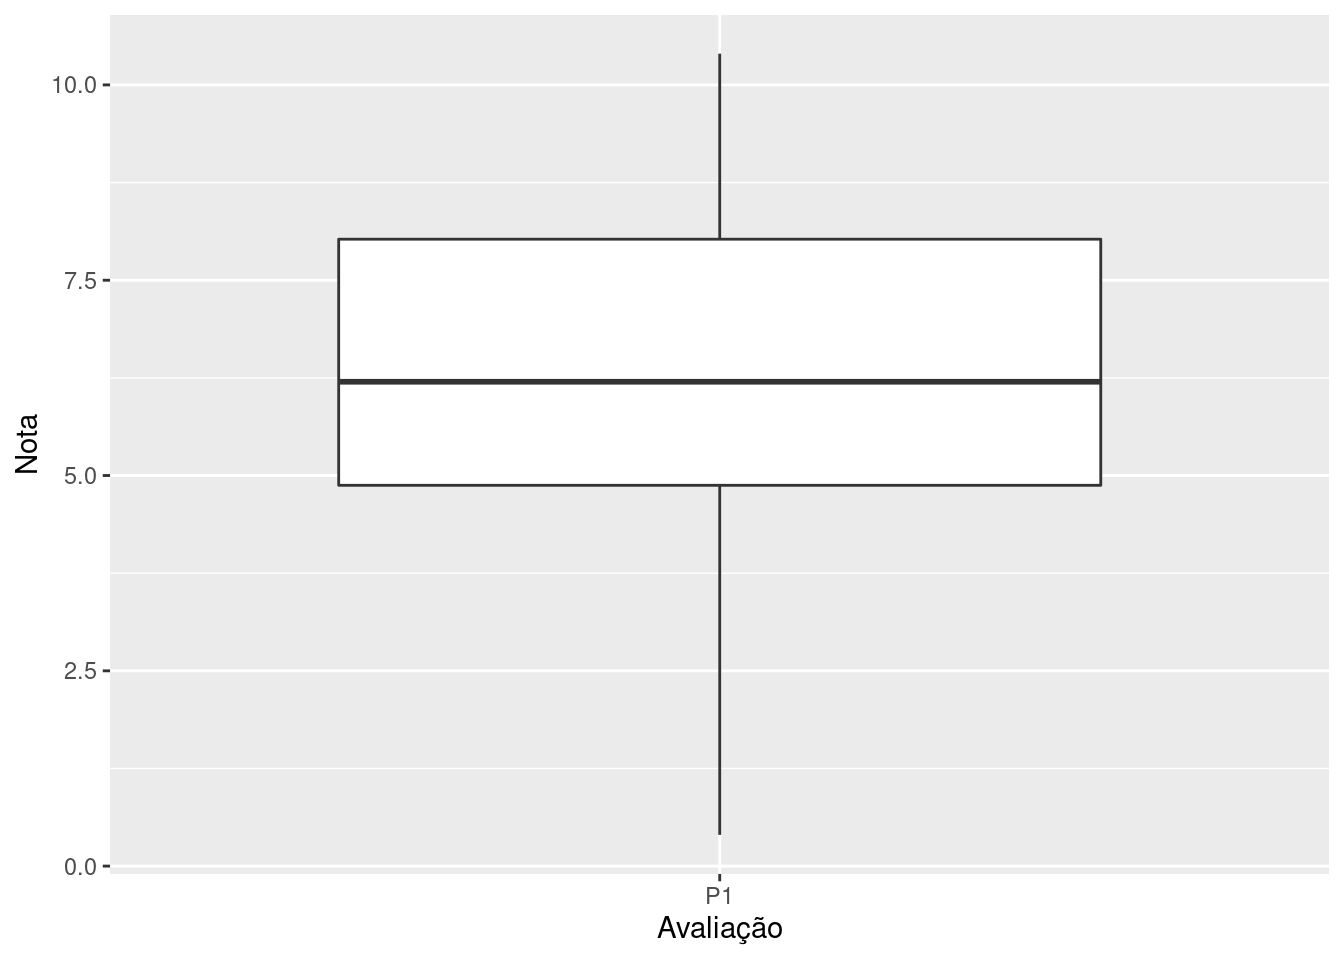
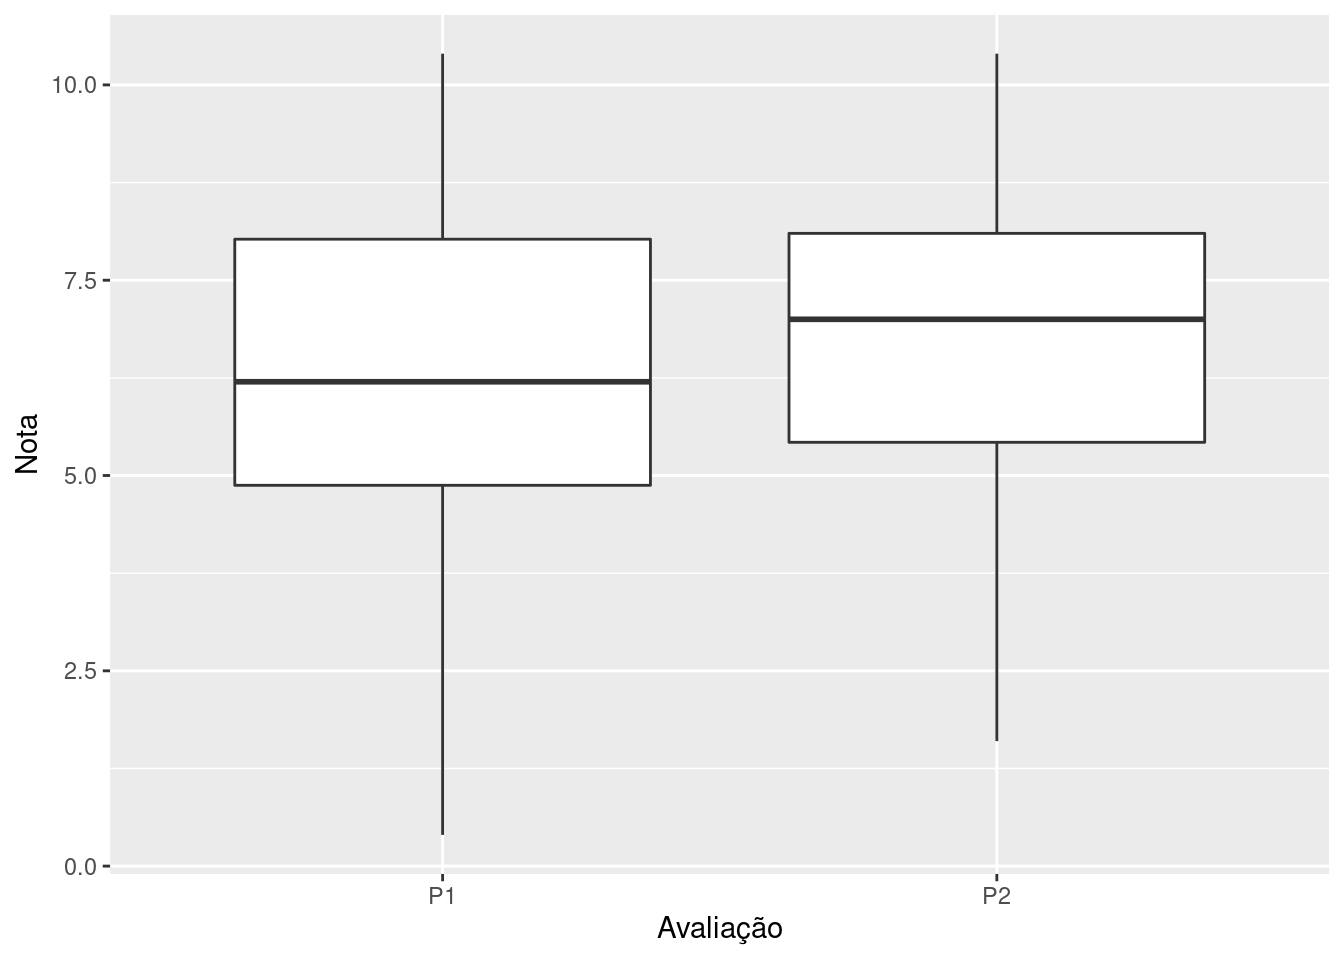
estat_2: aval 2

diff --git a/content/courses/estat_2/info/grades.html b/content/courses/estat_2/info/grades.html
@@ -17,7 +17,7 @@ type: book
 </ul>
 <div data-pagedtable="false">
 <script data-pagedtable-source type="application/json">
-{"columns":[{"label":["NUSP"],"name":[1],"type":["dbl"],"align":["right"]},{"label":["P1"],"name":[2],"type":["dbl"],"align":["right"]}],"data":[{"1":"336","2":"0.4"},{"1":"324","2":"0.0"},{"1":"795","2":"0.0"},{"1":"389","2":"0.0"},{"1":"290","2":"8.1"},{"1":"58","2":"0.0"},{"1":"125","2":"0.0"},{"1":"747","2":"8.9"},{"1":"855","2":"0.0"},{"1":"251","2":"7.0"},{"1":"859","2":"8.0"},{"1":"259","2":"0.0"},{"1":"72","2":"10.0"},{"1":"442","2":"5.0"},{"1":"356","2":"7.4"},{"1":"381","2":"0.0"},{"1":"89","2":"0.0"},{"1":"777","2":"7.0"},{"1":"732","2":"9.5"},{"1":"44","2":"0.0"},{"1":"206","2":"5.8"},{"1":"320","2":"4.1"},{"1":"534","2":"7.5"},{"1":"110","2":"0.0"},{"1":"877","2":"0.0"},{"1":"358","2":"3.6"},{"1":"601","2":"0.6"},{"1":"428","2":"7.2"},{"1":"607","2":"2.9"},{"1":"236","2":"8.5"},{"1":"431","2":"6.3"},{"1":"921","2":"4.5"},{"1":"469","2":"5.8"},{"1":"570","2":"0.0"},{"1":"874","2":"0.0"},{"1":"199","2":"0.0"},{"1":"262","2":"6.1"},{"1":"158","2":"0.0"},{"1":"652","2":"0.0"},{"1":"528","2":"6.1"},{"1":"943","2":"3.4"},{"1":"885","2":"0.0"},{"1":"562","2":"10.4"},{"1":"171","2":"0.0"},{"1":"460","2":"6.0"},{"1":"240","2":"5.8"},{"1":"782","2":"0.0"},{"1":"663","2":"8.3"},{"1":"166","2":"0.0"},{"1":"985","2":"0.0"},{"1":"802","2":"0.0"}],"options":{"columns":{"min":{},"max":[10]},"rows":{"min":[10],"max":[10]},"pages":{}}}
+{"columns":[{"label":["NUSP"],"name":[1],"type":["dbl"],"align":["right"]},{"label":["P1"],"name":[2],"type":["dbl"],"align":["right"]},{"label":["P2"],"name":[3],"type":["dbl"],"align":["right"]}],"data":[{"1":"336","2":"0.4","3":"0.0"},{"1":"389","2":"0.0","3":"3.1"},{"1":"290","2":"8.1","3":"6.6"},{"1":"125","2":"0.0","3":"1.6"},{"1":"747","2":"8.9","3":"5.4"},{"1":"251","2":"7.0","3":"5.4"},{"1":"859","2":"8.0","3":"10.0"},{"1":"72","2":"10.0","3":"7.9"},{"1":"442","2":"5.0","3":"7.6"},{"1":"356","2":"7.4","3":"7.1"},{"1":"89","2":"0.0","3":"9.1"},{"1":"777","2":"7.0","3":"8.1"},{"1":"732","2":"9.5","3":"9.1"},{"1":"206","2":"5.8","3":"8.1"},{"1":"320","2":"4.1","3":"0.0"},{"1":"534","2":"7.5","3":"8.1"},{"1":"358","2":"3.6","3":"6.4"},{"1":"601","2":"0.6","3":"3.4"},{"1":"428","2":"7.2","3":"5.9"},{"1":"607","2":"2.9","3":"1.9"},{"1":"236","2":"8.5","3":"8.6"},{"1":"431","2":"6.3","3":"6.9"},{"1":"921","2":"4.5","3":"4.4"},{"1":"469","2":"5.8","3":"5.9"},{"1":"262","2":"6.1","3":"6.1"},{"1":"528","2":"6.1","3":"8.9"},{"1":"943","2":"3.4","3":"7.6"},{"1":"562","2":"10.4","3":"10.4"},{"1":"171","2":"0.0","3":"1.6"},{"1":"460","2":"6.0","3":"7.4"},{"1":"240","2":"5.8","3":"5.5"},{"1":"663","2":"8.3","3":"7.1"}],"options":{"columns":{"min":{},"max":[10]},"rows":{"min":[10],"max":[10]},"pages":{}}}
   </script>
 </div>
 </div>
